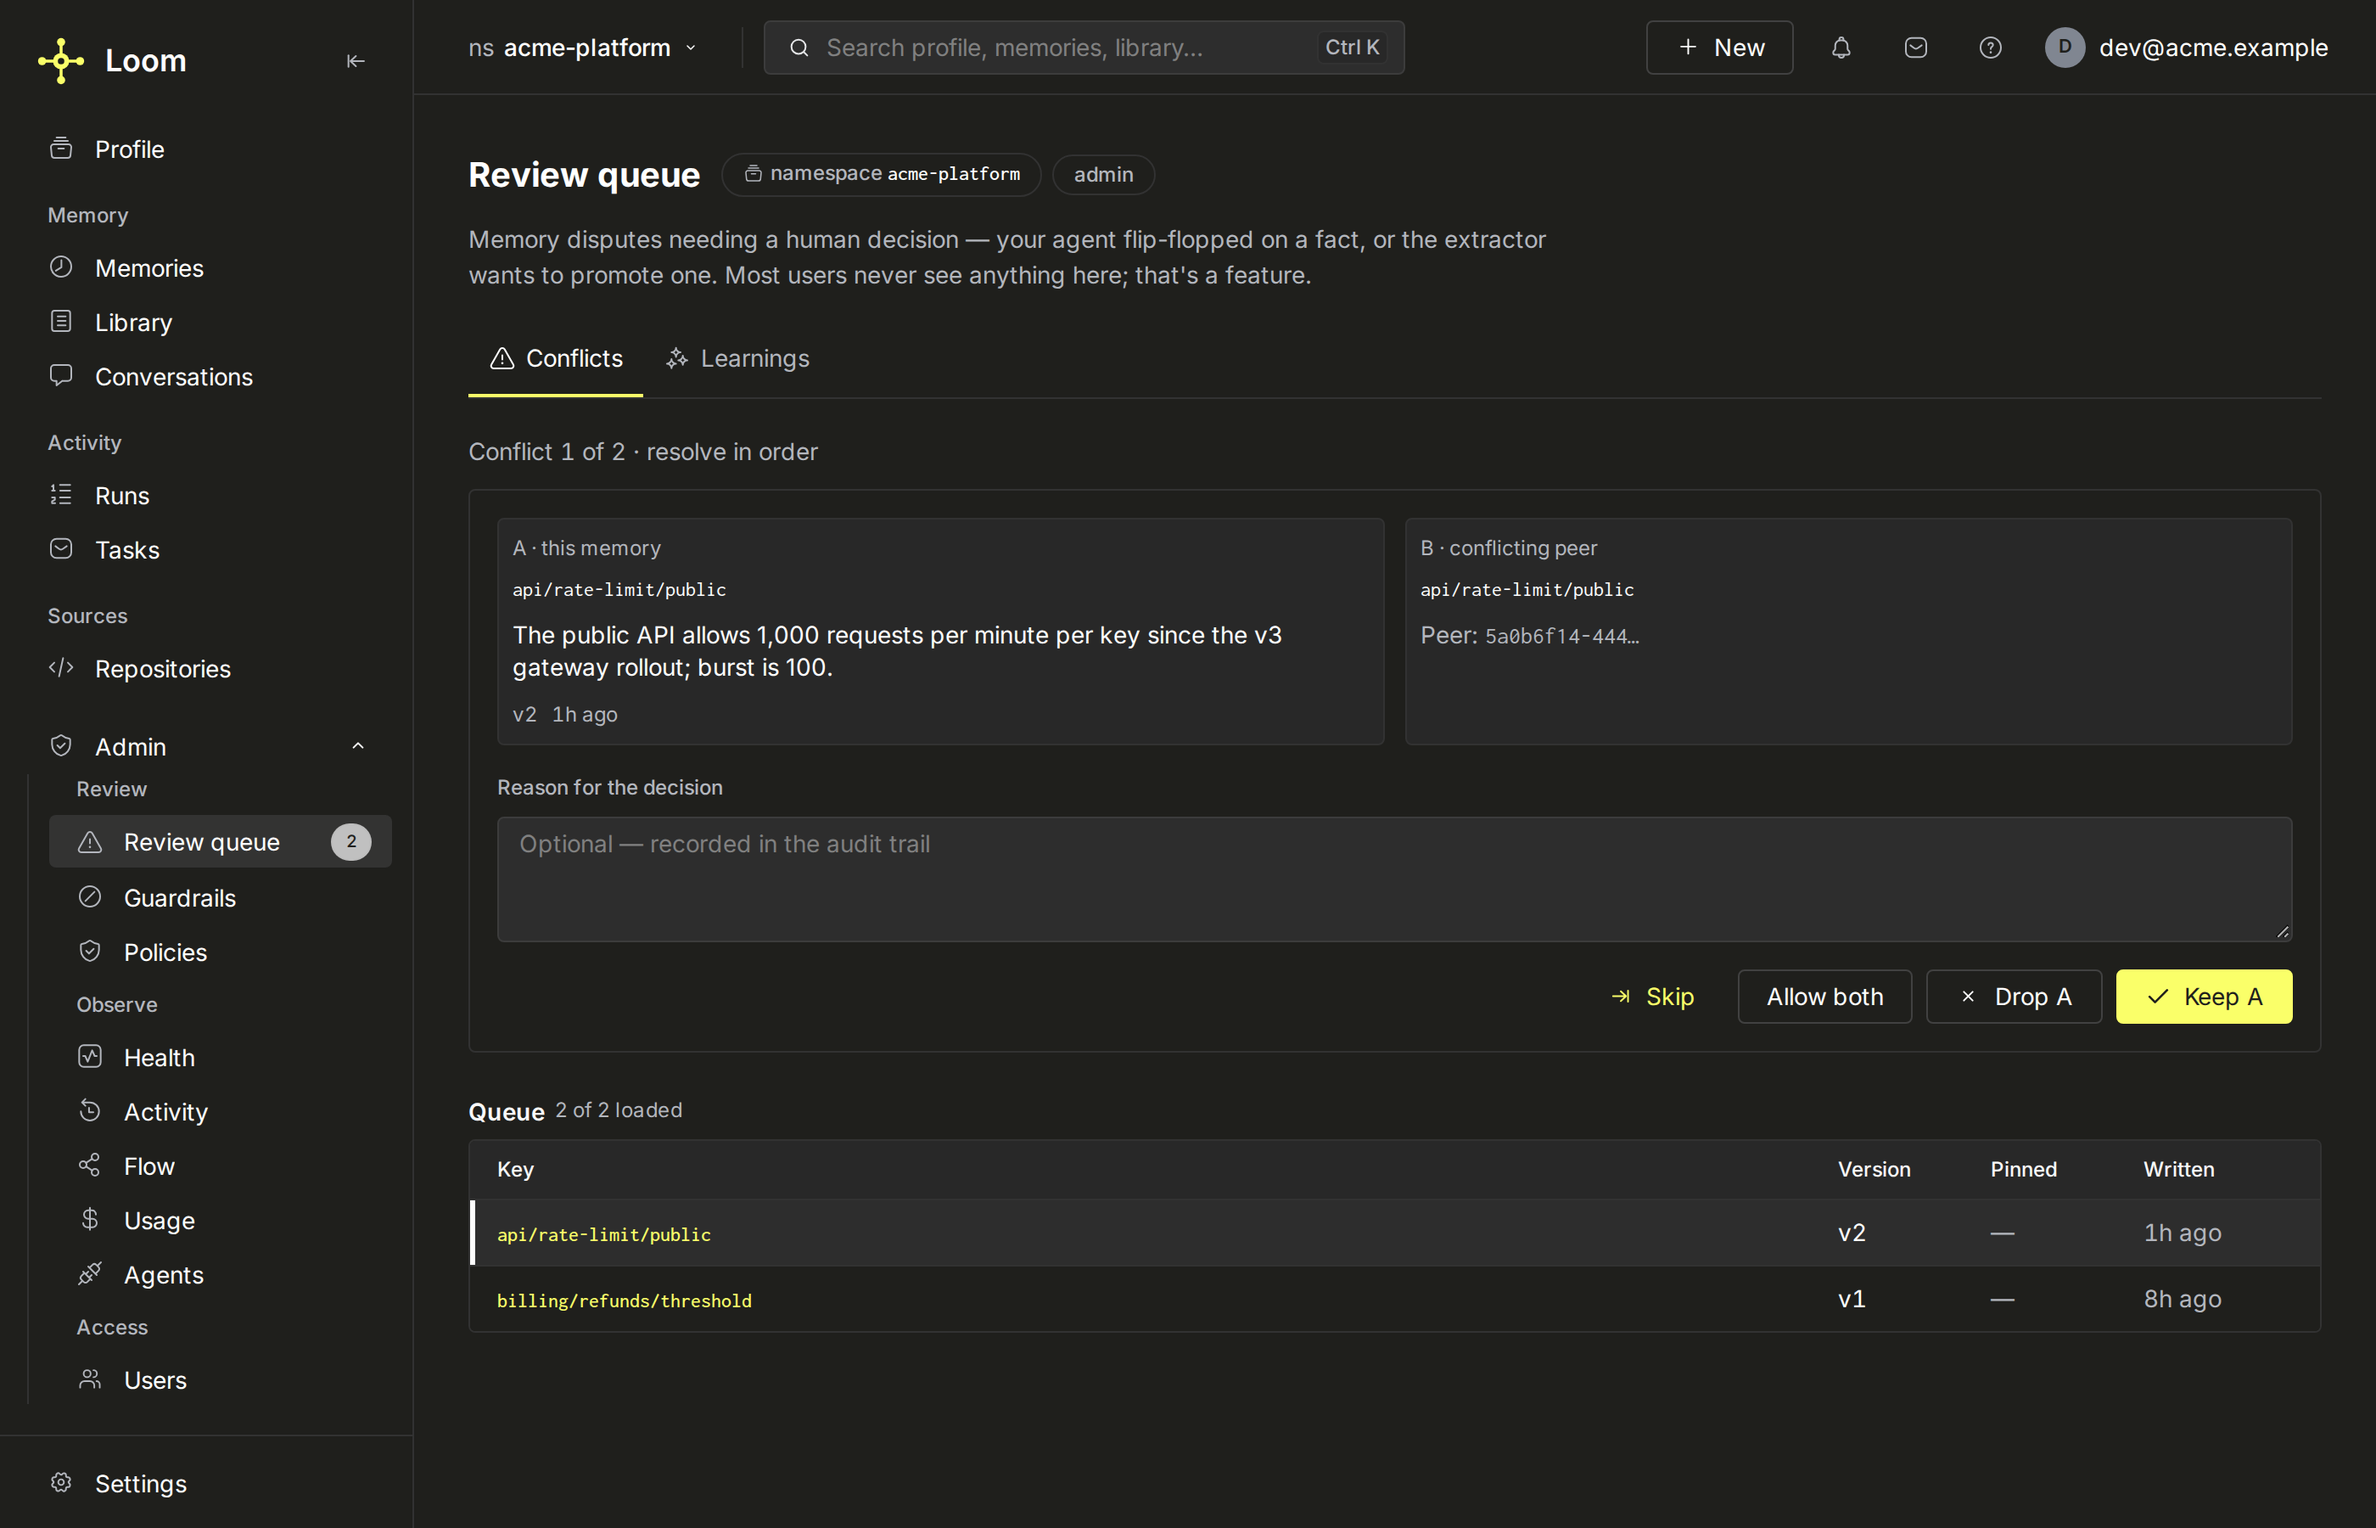
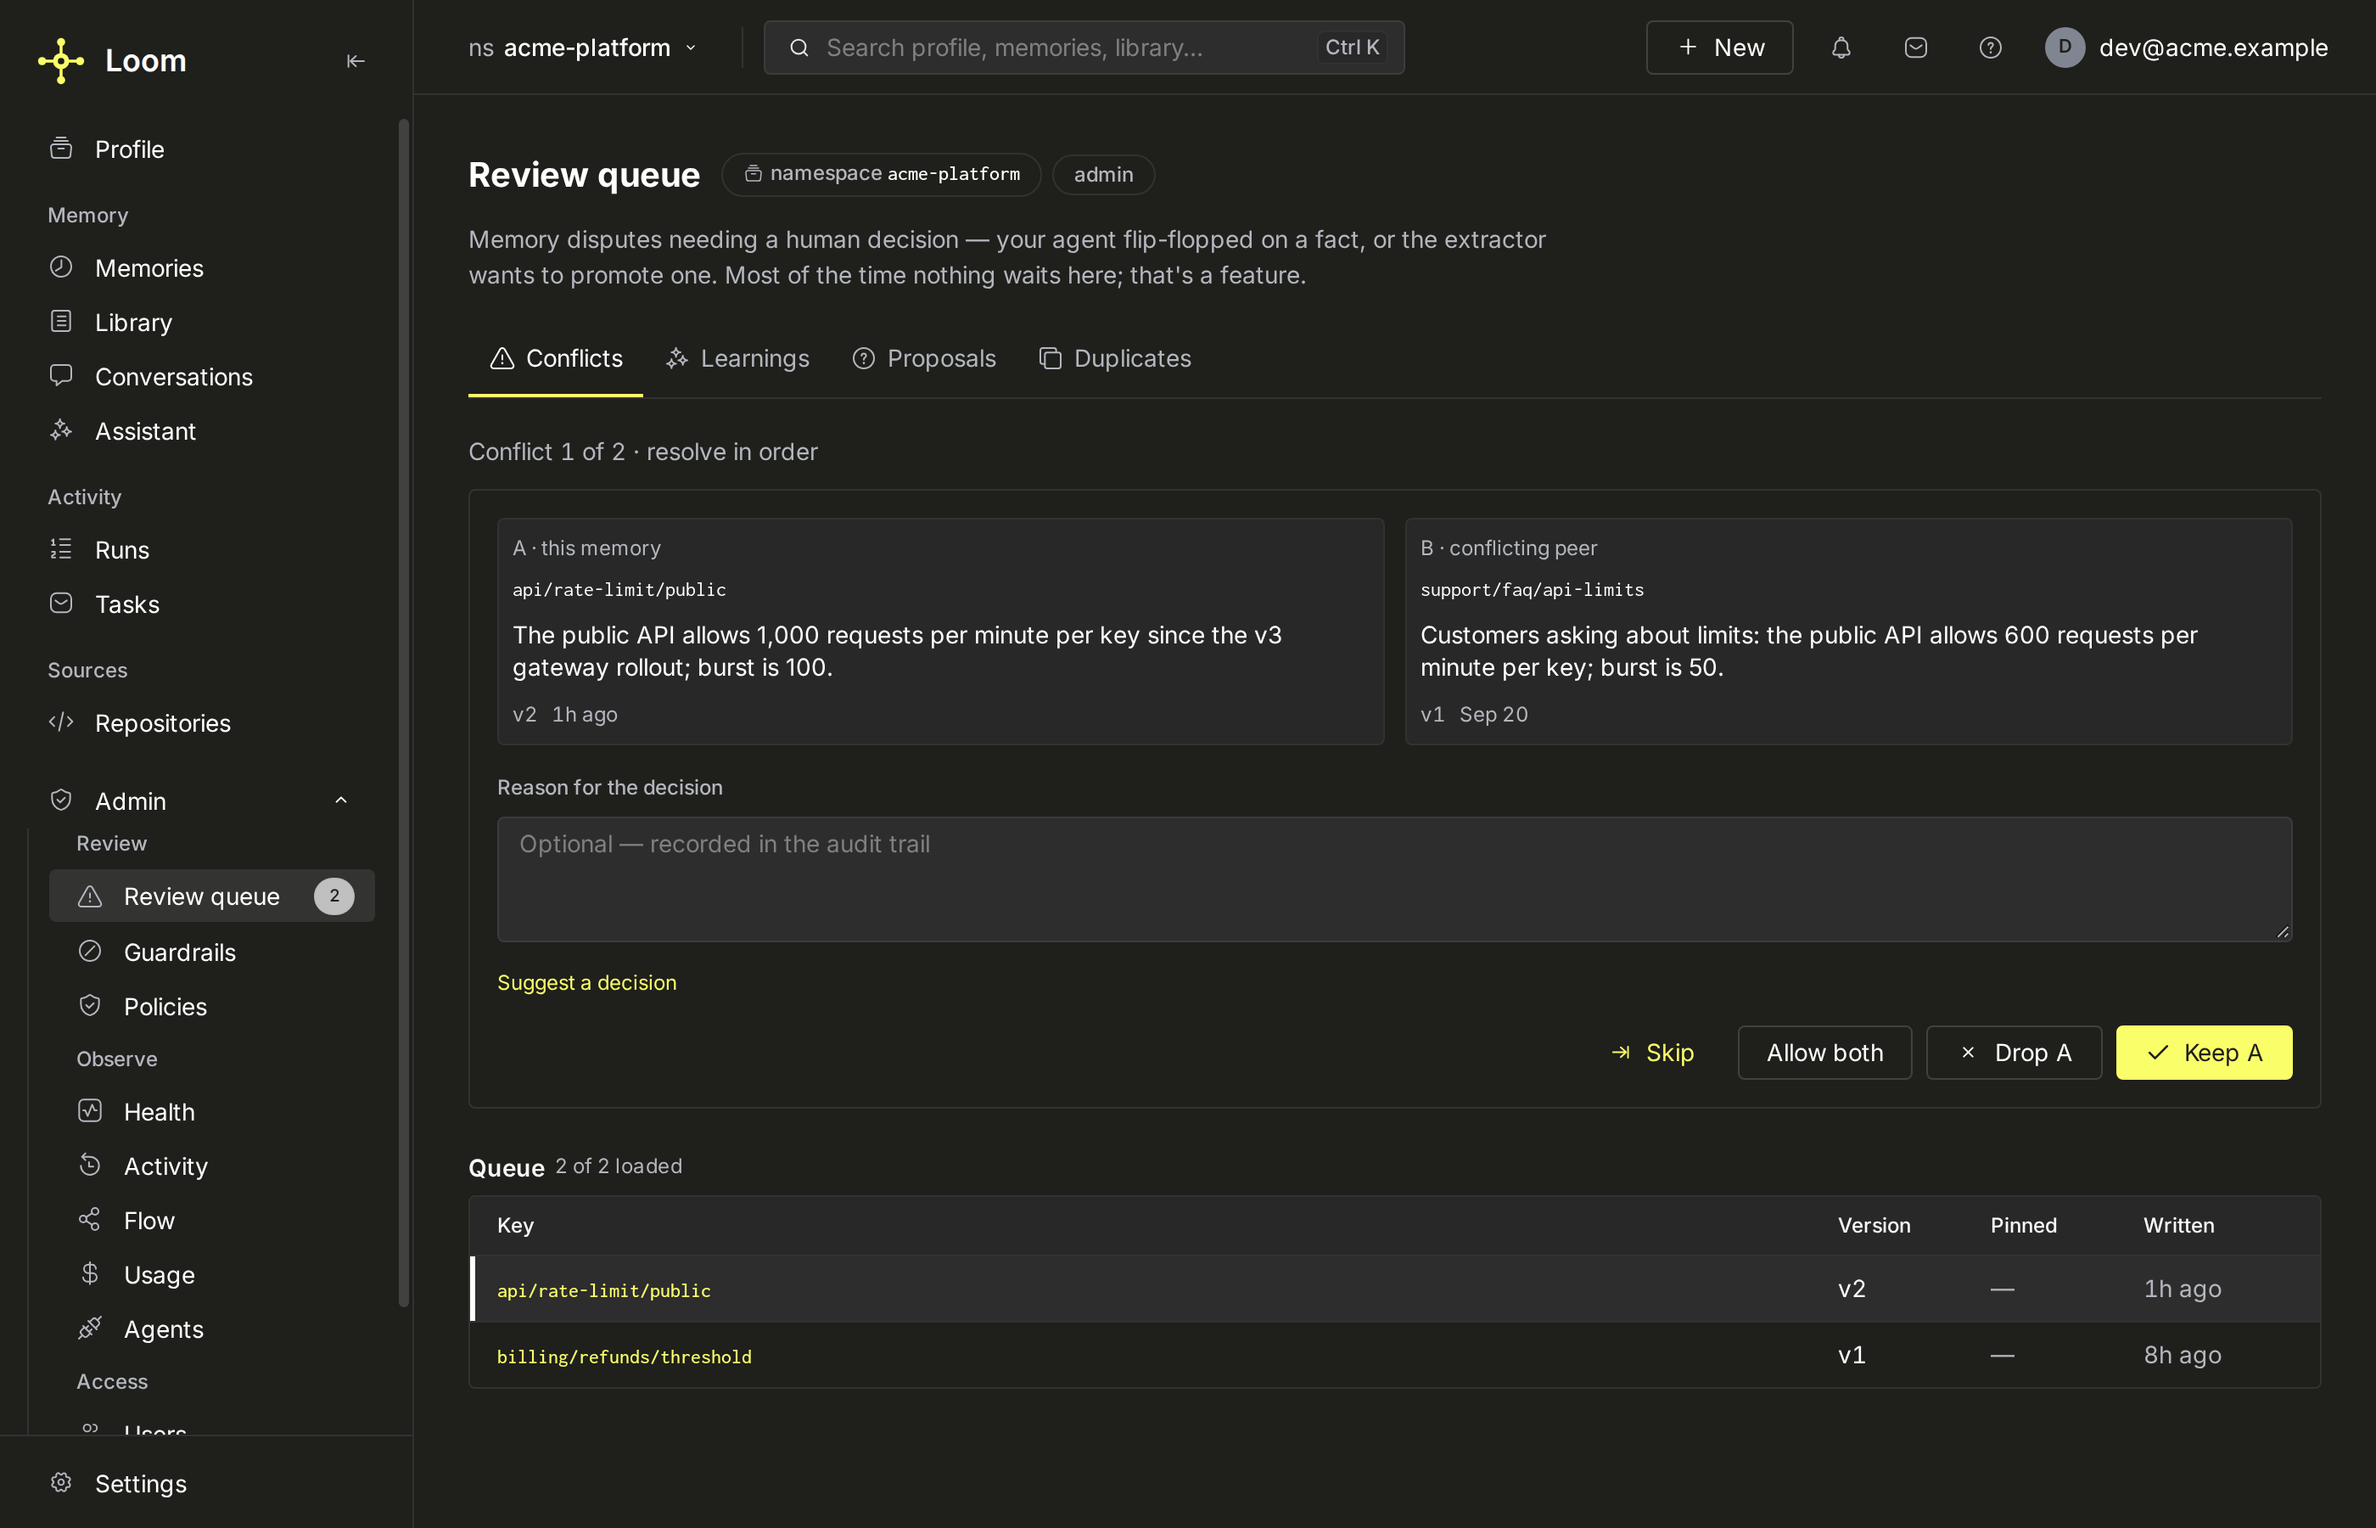
The Proposals panel is keyed by namespace, the screenshot shows the new tabs, and the comments match

diff --git a/frontend/src/views/admin/Proposals.test.tsx b/frontend/src/views/admin/Proposals.test.tsx
@@ -66,7 +66,7 @@ describe("ProposalsPanel", () => {
 
   it("offers a viewer the proposals and no decision", async () => {
     signIn("viewer");
-    await show([P], 1);
+    await show([P]);
     expect(screen.getByText("Deploys run on Tuesdays")).toBeInTheDocument();
     expect(screen.queryByRole("button", { name: "Accept deploy_window" })).toBeNull();
     expect(screen.queryByRole("button", { name: "Actions for deploy_window" })).toBeNull();
@@ -78,7 +78,7 @@ describe("ProposalsPanel", () => {
       results: [{ memory_key: "deploy_window", decided: false, status: "active", reason: "already accepted" }],
     });
     vi.mocked(api.listProposals).mockResolvedValue({ proposals: [], total: 0 });
-    await show([P], 1);
+    await show([P]);
     await userEvent.click(screen.getByRole("button", { name: "Actions for deploy_window" }));
     await userEvent.click(await screen.findByRole("menuitem", { name: "Reject" }));
     await waitFor(() => expect(toast).toHaveBeenCalledWith("Not decided: already accepted", "info"));
@@ -107,7 +107,7 @@ describe("ProposalsPanel", () => {
       results: [{ memory_key: "deploy_window", decided: true, status: "conflicted", reason: "" }],
     });
     vi.mocked(api.listProposals).mockResolvedValue({ proposals: [], total: 0 });
-    await show([P], 1);
+    await show([P]);
     await userEvent.click(screen.getByRole("button", { name: "Accept deploy_window" }));
     await waitFor(() =>
       expect(toast).toHaveBeenCalledWith("Accepted; it contradicts another fact, so it waits in Conflicts", "ok"),
@@ -117,7 +117,7 @@ describe("ProposalsPanel", () => {
   it("holds every row until the list is read again after a decision", async () => {
     let answer: (v: { proposals: MemoryProposal[]; total: number }) => void = () => {};
     const lone = { ...P, memory_id: "m3", memory_key: "standup_time" };
-    await show([P, lone], 2);
+    await show([P, lone]);
     vi.mocked(api.listProposals).mockImplementationOnce(() => new Promise((r) => (answer = r)));
     await userEvent.click(screen.getByRole("button", { name: "Accept deploy_window" }));
     await waitFor(() => expect(api.listProposals).toHaveBeenCalledTimes(2));

diff --git a/frontend/src/views/admin/ReviewQueue.test.tsx b/frontend/src/views/admin/ReviewQueue.test.tsx
@@ -243,7 +243,31 @@ describe("ReviewQueue", () => {
     expect(await screen.findByText("This conflict is no longer open.")).toBeInTheDocument();
   });
 
-  it("reads proposals afresh when the tab opens again, so a decided one does not come back", async () => {
+  it("shows no proposal of the namespace left after a switch", async () => {
+    const P = {
+      memory_key: "deploy_window",
+      memory_id: "m1",
+      agent: "a",
+      value_preview: "Tuesdays",
+      sensitivity: "" as const,
+      created_at: "2000-01-01 00:00:00",
+      graded_passes: 1,
+      graded_fails: 0,
+      ready: "" as const,
+    };
+    vi.mocked(listConflicts).mockResolvedValue({ rows: [conflict("city")], next_before_version: null });
+    vi.mocked(listProposals).mockResolvedValueOnce({ proposals: [P], total: 1 });
+    seed("ns-a", "writer");
+    const user = userEvent.setup();
+    render(<ReviewQueue />);
+    await user.click(await screen.findByRole("tab", { name: /Proposals/ }, WAIT));
+    expect(await screen.findByText("Tuesdays")).toBeInTheDocument();
+    vi.mocked(listProposals).mockImplementation(() => new Promise(() => {}));
+    seed("ns-b", "writer");
+    await waitFor(() => expect(screen.queryByText("Tuesdays")).toBeNull());
+  });
+
+  it("reads proposals each time the tab opens", async () => {
     const P = {
       memory_key: "deploy_window",
       memory_id: "m1",

diff --git a/frontend/src/views/admin/ReviewQueue.tsx b/frontend/src/views/admin/ReviewQueue.tsx
@@ -186,10 +186,11 @@ export function ReviewQueue() {
       </PageHeader>
       <p className="text-sm text-text-muted mb-5 max-w-2xl">
         Memory disputes needing a human decision — your agent flip-flopped on a fact, or the extractor wants to promote
-        one. Most users never see anything here; that's a feature.
+        one. Most of the time nothing waits here; that's a feature.
       </p>
       {/* Conflicts mounts (and reads) once, at once; the sub-tabs join it when a probe finds
-          rows. Until then the lone panel is the page itself, not a tab panel without tabs. */}
+          rows or the role reaches them. Until then the lone panel is the page itself, not a
+          tab panel without tabs. */}
       <Tabs
         value={tab}
         onValueChange={(t) => {
@@ -258,7 +259,8 @@ export function ReviewQueue() {
         )}
         {hasProposals && (
           <Tabs.Content value="proposals">
-            <ProposalsPanel />
+            {/* Keyed by namespace: another namespace's proposals are a new panel. */}
+            <ProposalsPanel key={scopeKey} />
           </Tabs.Content>
         )}
         {hasDuplicates && (
